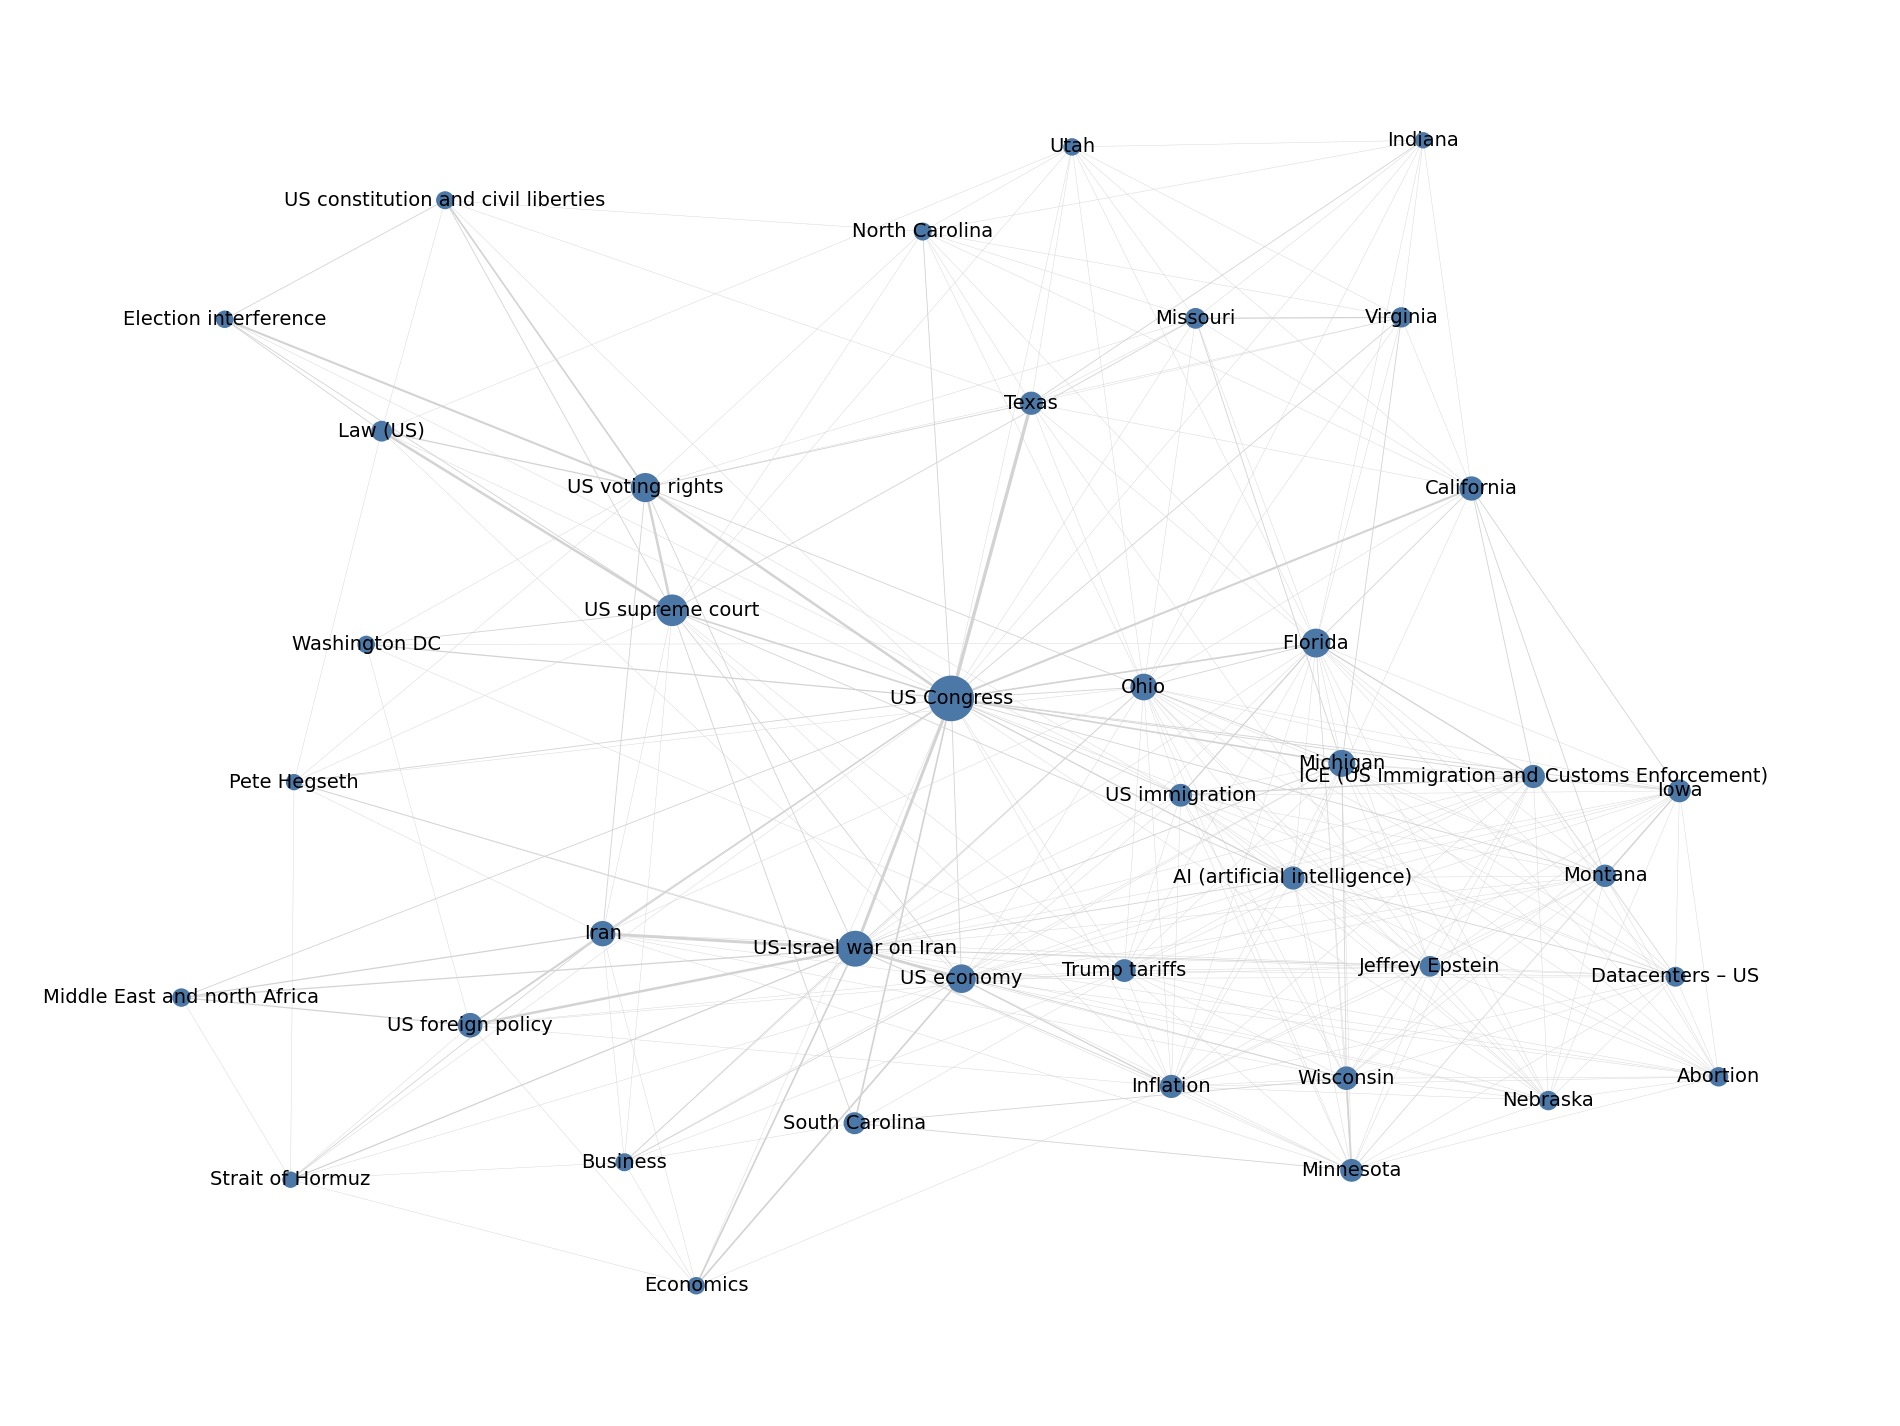
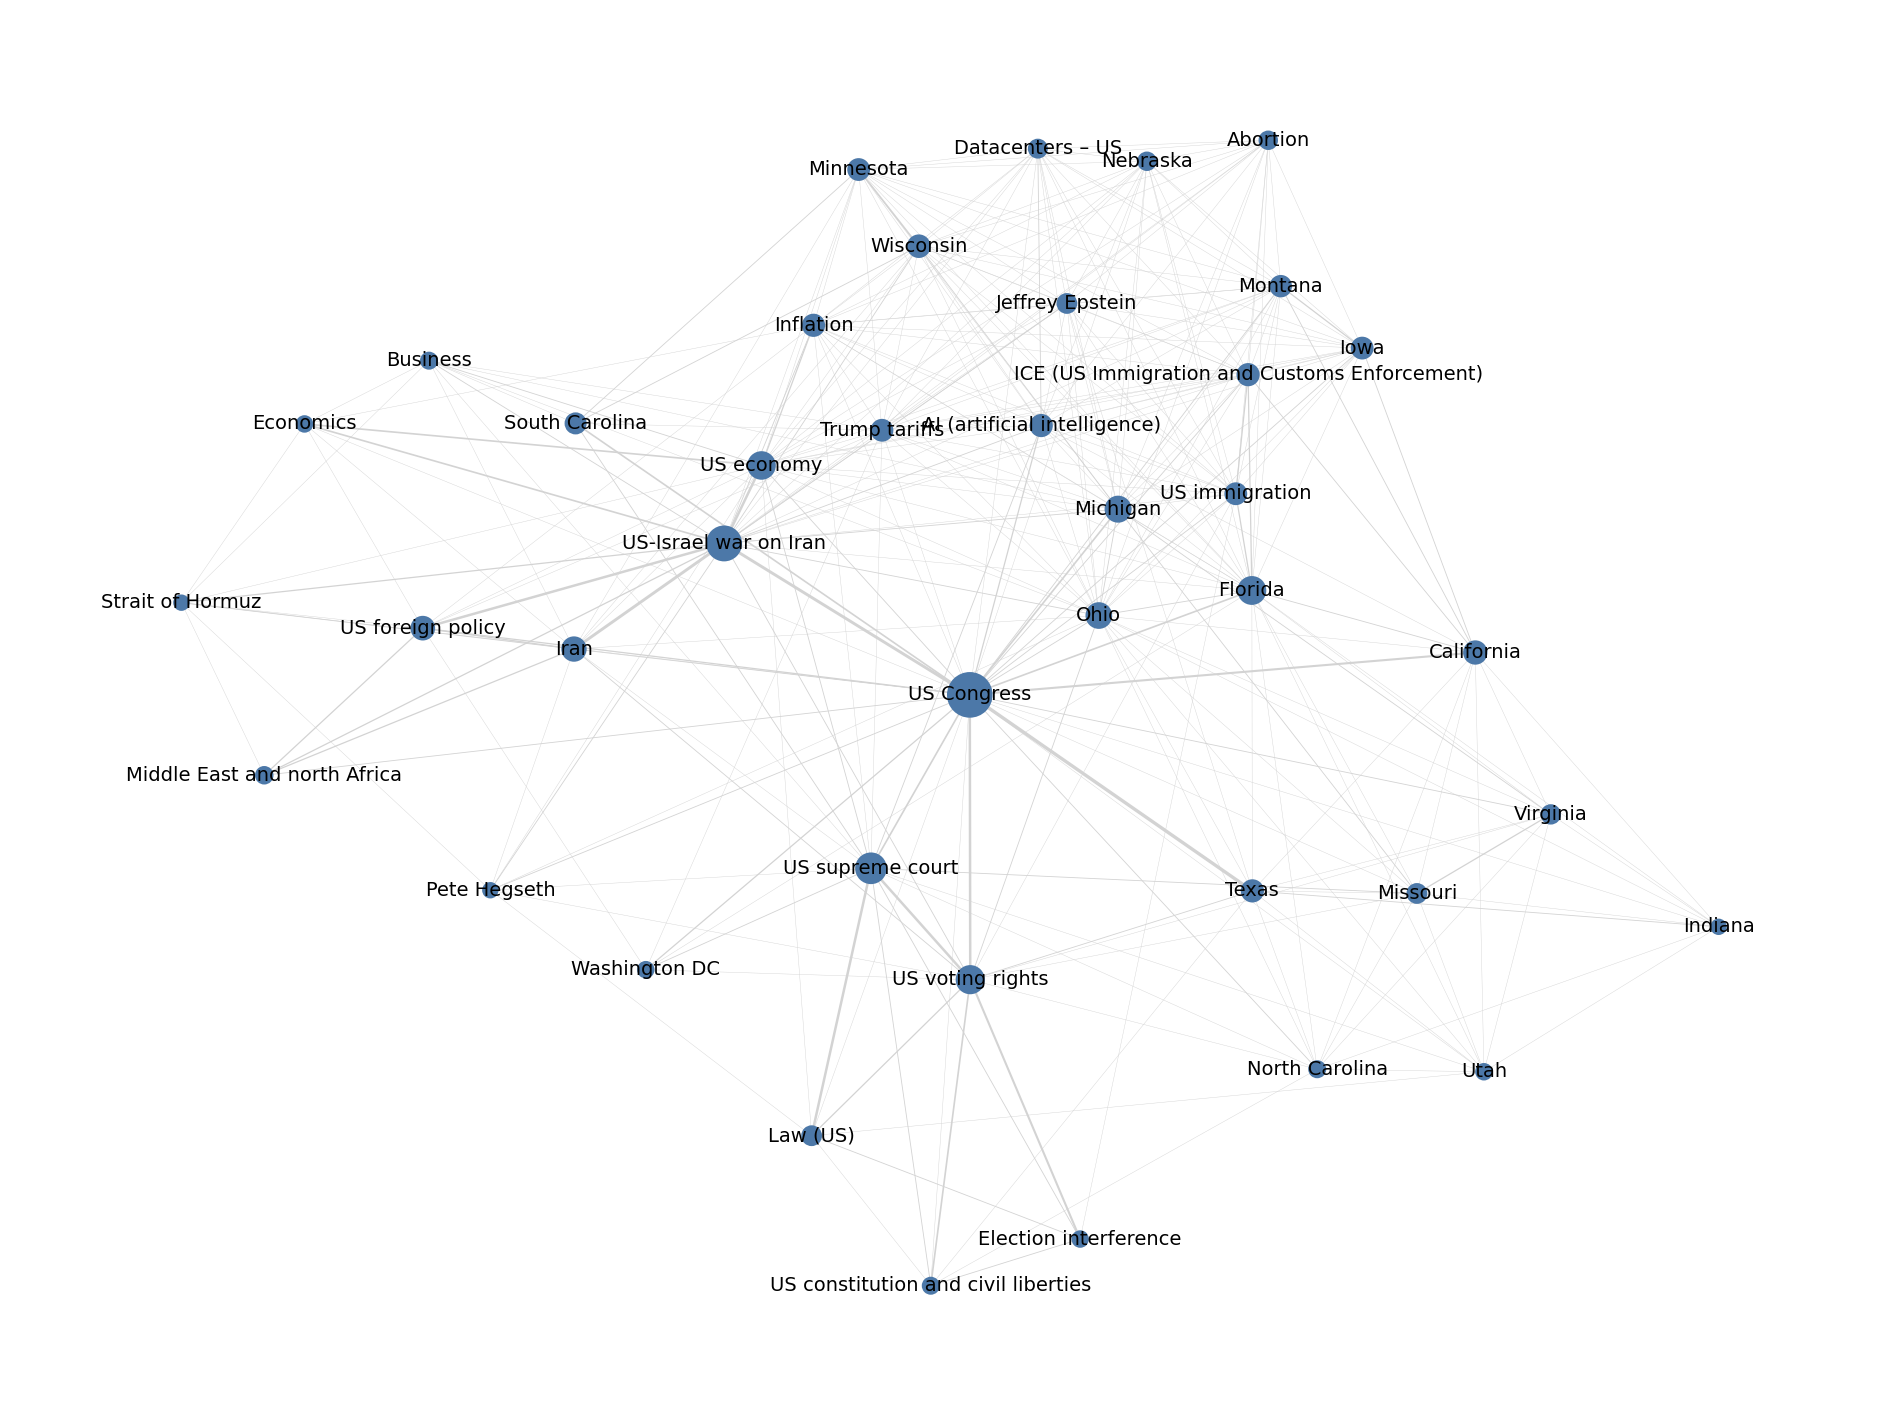
added dataframe table output
for top 10 of all centrality measures

diff --git a/main-code.py b/main-code.py
@@ -239,11 +239,20 @@ if __name__ == "__main__":
     print(f"\nGraph: {G.number_of_nodes()} nodes, {G.number_of_edges()} edges, "
           f"density {nx.density(G):.3f}")
     core, table = compute_centrality(G)
+    top10 = pd.DataFrame({
+        "Strength": table["strength"].sort_values(ascending=False).head(10).index,
+        "Betweenness": table["betweenness"].sort_values(ascending=False).head(10).index,
+        "Closeness": table["closeness"].sort_values(ascending=False).head(10).index,
+    })
+    top10.index = range(1, 11)
+    top10.to_csv(OUT_DIR / "table1_top10.csv")
+    print(top10)
+
     top_pairs(pairs)
     plot_network(core, table)
     plot_heatmap(pairs, table)
     plot_monthly(rows)
-
+    
     print("\nSensitivity check (Trump and parties removed):")
     sensitivity(rows)
     print("\nDone. See output/ and figures/.")
